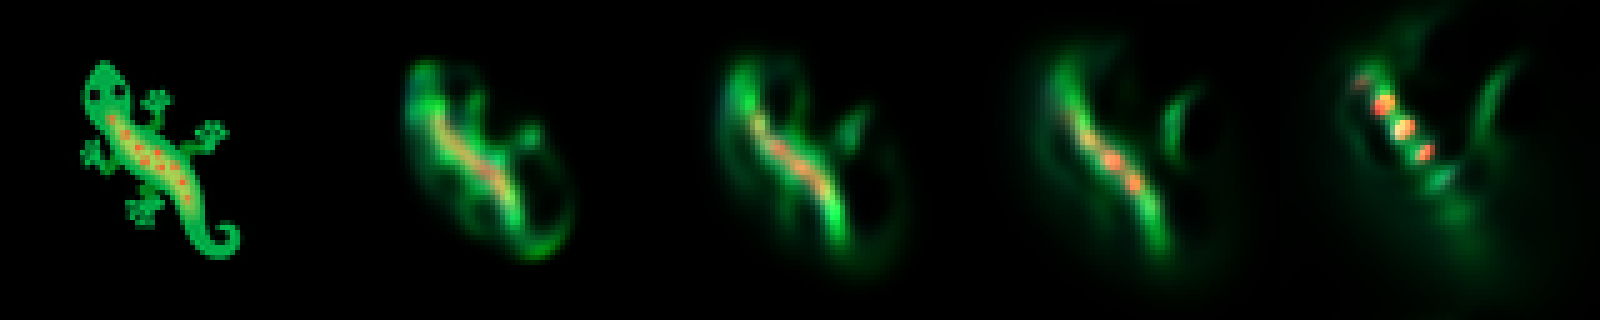
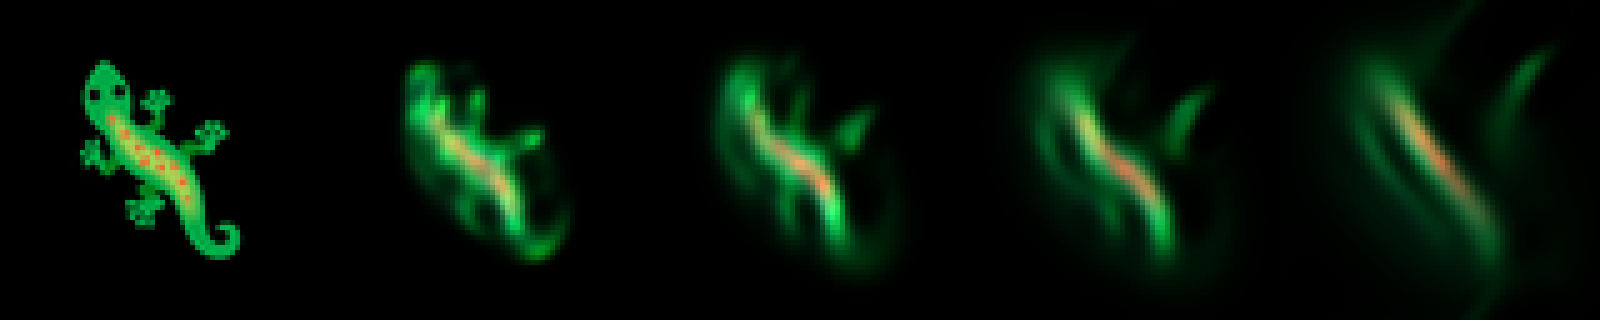
Measure persistence instead of judging it by eye
The polar run reaches the lizard and then loses it, and until now that was a
claim about a picture. Loss from the seed against rollout length, at the
current checkpoint:

    8    0.0257
    16   0.0032     <- the training window
    32   0.0043
    64   0.0069
    128  0.0100

The minimum sits exactly at the window and rises monotonically past it. So
checkpoints now log that whole curve, and the reseeding rate the curve
indicts becomes a flag: --reseed-every, defaulting to 4 rather than the
every-iteration behaviour that kept half a batch of two permanently fresh.

Also here, bake_from_config: kernel dicts baked with angular terms honoured
and R as a continuous radial scale on the shared grid. It is what §7 asks
bakeKernel to become, and it is what lets train/evaluate.py replay a
preset.json exactly as index.html would -- which is also a check that nothing
the trainer learned lives outside the file it exports.

Parity still passes.

Claude-Session: https://claude.ai/code/session_01WKrMnD7YksARi9mdYUD5iv

diff --git a/train/train.py b/train/train.py
@@ -47,6 +47,7 @@ import fieldlife as fl
 import target as tgt
 
 HERE = os.path.dirname(os.path.abspath(__file__))
+HORIZONS = [16, 32, 64, 128]   # rollout lengths the checkpoint reports
 
 
 # ------------------------------------------------------------------ the model
@@ -128,6 +129,23 @@ def divergence_rate(model, rho, steps=12):
         return (sum((p[0] - mx) * (p[1] - my) for p in gaps) / den) if den else 0.0
 
 
+def horizon_losses(model, target, seed, steps_list):
+    """Loss from the seed at each rollout length.
+
+    The training window is short by necessity, so the number that matters is
+    not the loss at the window but how it behaves well past it: a model that
+    reaches the shape and then smears has a rising curve here, and one that
+    holds has a flat one. Without this the difference is only visible by eye.
+    """
+    with torch.no_grad():
+        out, rho, done = [], seed[None].clone(), 0
+        for s in steps_list:
+            rho = model.rollout(rho, s - done)
+            done = s
+            out.append(((rho[0, :3] - target) ** 2).mean().item())
+    return out
+
+
 def save_progress(path, target, model, seed, steps_list):
     """Target on the left, then the rollout at each checkpoint length."""
     with torch.no_grad():
@@ -157,6 +175,8 @@ def main():
     ap.add_argument("--batch", type=int, default=2)
     ap.add_argument("--window", type=int, default=16, help="BPTT length")
     ap.add_argument("--pool", type=int, default=64)
+    ap.add_argument("--reseed-every", type=int, default=4,
+                    help="iterations between sending a pool state back to the seed")
     ap.add_argument("--lr", type=float, default=3e-3)
     ap.add_argument("--lam-penalty", type=float, default=0.02,
                     help="weight on the measured divergence rate")
@@ -194,7 +214,8 @@ def main():
     logp = os.path.join(run, "log.csv")
     if not os.path.exists(logp):
         with open(logp, "w", newline="") as f:
-            csv.writer(f).writerow(["iter", "loss", "best", "lam", "force", "beta", "secs"])
+            csv.writer(f).writerow(["iter", "loss", "best", "lam", "force", "beta",
+                                    "h16", "h32", "h64", "h128", "secs"])
 
     print(f"run {a.name}: orders {orders}  C {a.channels}  grid {a.grid}  "
           f"window {a.window}  batch {a.batch}  pool {a.pool}")
@@ -205,13 +226,16 @@ def main():
     for it in range(start_it, a.iters):
         idx = torch.randint(0, a.pool, (a.batch,))
         batch = pool[idx].clone()
-        # the worst state in the batch goes back to the seed, so the model has
-        # to keep working from scratch and cannot drift into a pool of its own
-        # comfortable states -- Growing NCA's trick, and the reason the pattern
-        # is asked to persist rather than merely to be reached once
-        with torch.no_grad():
-            worst = ((batch[:, :3] - target) ** 2).mean(dim=(1, 2, 3)).argmax()
-        batch[worst] = seed
+        # The worst state in the batch goes back to the seed, so the model has
+        # to keep working from scratch -- Growing NCA's trick. But the RATE
+        # matters as much as the trick: resetting one of a batch of two every
+        # iteration reseeds half the batch, and then no pooled state ever ages
+        # past about two windows, so persistence is never actually asked for.
+        # Reseeding every few iterations instead lets the pool grow old.
+        if it % a.reseed_every == 0:
+            with torch.no_grad():
+                worst = ((batch[:, :3] - target) ** 2).mean(dim=(1, 2, 3)).argmax()
+            batch[worst] = seed
 
         out = model.rollout(batch, a.window)
         loss = ((out[:, :3] - target) ** 2).mean()
@@ -241,18 +265,20 @@ def main():
         if it % a.ckpt == 0 or it == a.iters - 1:
             f, r, b = model.scalars()
             secs = time.time() - t0
+            hz = horizon_losses(model, target, seed, HORIZONS)
             with open(logp, "a", newline="") as fh:
                 csv.writer(fh).writerow([it, f"{loss.item():.6f}", f"{best:.6f}",
                                          f"{lam:.3f}", f"{f:.2f}", f"{b:.3f}",
-                                         f"{secs:.0f}"])
+                                         *[f"{v:.6f}" for v in hz], f"{secs:.0f}"])
             json.dump(model.to_config(a.channels, a.grid),
                       open(os.path.join(run, "preset.json"), "w"))
             torch.save({"model": model.state_dict(), "opt": opt.state_dict(),
                         "pool": pool, "iter": it}, ck)
             save_progress(os.path.join(run, "progress.png"), target, model, seed,
-                          [16, 32, 64, 128])
+                          HORIZONS)
             print(f"  it {it:6d}  loss {loss.item():.5f}  best {best:.5f}  "
                   f"lam {lam:+.2f}  force {f:6.1f}  beta {b:.2f}  "
+                  f"horizon {'/'.join(f'{v:.4f}' for v in hz)}  "
                   f"{secs / max(it - start_it + 1, 1):.2f}s/it", flush=True)
 
         if a.minutes and time.time() - t0 > a.minutes * 60:

diff --git a/train/evaluate.py b/train/evaluate.py
@@ -1,0 +1,66 @@
+"""
+Replay a trained preset and report how well it holds the target.
+
+    python3 train/evaluate.py train/runs/polar/preset.json
+
+Everything comes from the preset -- the same file index.html would load -- so
+this also checks that nothing the trainer learned lives outside it.
+"""
+
+import argparse
+import json
+import os
+import sys
+
+import numpy as np
+import torch
+from PIL import Image
+
+sys.path.insert(0, os.path.dirname(os.path.abspath(__file__)))
+import fieldlife as fl
+import target as tgt
+
+HORIZONS = [8, 16, 32, 64, 128, 256]
+
+
+def main():
+    ap = argparse.ArgumentParser()
+    ap.add_argument("preset")
+    ap.add_argument("--kr", type=int, default=13)
+    ap.add_argument("--png", default=None)
+    a = ap.parse_args()
+
+    cfg = json.load(open(a.preset))
+    C, N = cfg["C"], cfg["N"]
+    tg = torch.tensor(tgt.render_emoji(span=tgt.SPAN, grid=N), dtype=torch.float64)
+    masses = tgt.seed_masses(tg.numpy(), C, rng=np.random.default_rng(0))
+    rho = torch.tensor(tgt.seed_field(masses, grid=N), dtype=torch.float64)[None]
+
+    kern = fl.bake_from_config(cfg["kernels"], C, a.kr)
+    mat = torch.tensor(cfg["mat"], dtype=torch.float64).reshape(C, C)
+    g = (cfg["force"], cfg["repel"], cfg["beta"])
+    print(f"{os.path.basename(os.path.dirname(a.preset))}: C {C}  grid {N}  "
+          f"force {g[0]:.1f}  repel {g[1]:.2f}  beta {g[2]:.3f}")
+
+    tiles, done = [tg.numpy()], 0
+    print(f"  {'steps':>6} {'loss':>10}")
+    for h in HORIZONS:
+        for _ in range(h - done):
+            rho = fl.step(rho, kern, mat, *g)
+        done = h
+        loss = ((rho[0, :3] - tg) ** 2).mean().item()
+        print(f"  {h:>6} {loss:>10.6f}")
+        tiles.append(rho[0, :3].numpy())
+
+    drift = (rho[0].sum(dim=(1, 2)) - torch.tensor(masses)).abs().max().item()
+    print(f"  mass drift over {done} steps: {drift:.2e}")
+
+    if a.png:
+        strip = np.concatenate([np.clip(t.transpose(1, 2, 0), 0, 1) for t in tiles], axis=1)
+        img = Image.fromarray((strip * 255).astype(np.uint8))
+        img.resize((img.width * 4, img.height * 4), Image.NEAREST).save(a.png)
+        print(f"  wrote {a.png}")
+
+
+if __name__ == "__main__":
+    main()

diff --git a/train/fieldlife.py b/train/fieldlife.py
@@ -322,3 +322,32 @@ class PolarKernels(torch.nn.Module):
                             "m": orders[l], "phase": ph[c][l]}
                            for l in range(len(orders))]}
                 for c in range(self.C)]
+
+
+def bake_from_config(kernels, C, KR, dtype=torch.float64, device="cpu"):
+    """Bake index.html-shaped kernel dicts, honouring angular terms.
+
+    This is the reference for what §7 of docs/nca-experiment.md asks bakeKernel
+    to become: `m` and `phase` on a term, and every channel baked on the ONE
+    shared grid with `R` as a continuous radial scale rather than resampled to
+    its own resolution. Terms without `m`/`phase` default to a plain radial
+    lobe, so an existing preset bakes exactly as it does today.
+
+    It is also how a trained preset.json is replayed -- see train/evaluate.py.
+    """
+    px, py = _subsampled(KR, dtype, device)
+    rad, theta = torch.hypot(px, py), torch.atan2(py, px)
+    out = []
+    for c in range(C):
+        k = kernels[c]
+        R = max(float(k["R"]), 1e-3)
+        rr = rad / R
+        v = torch.zeros_like(rr)
+        for t in k.get("terms", []):
+            w = max(float(t["w"]), 2.0 / KR)      # below ~2 cells the stencil aliases
+            v = v + (float(t["a"])
+                     * torch.exp(-(((rr - float(t["r"])) / w) ** 2))
+                     * torch.cos(float(t.get("m", 0)) * theta + float(t.get("phase", 0.0))))
+        v = torch.where(rr > 1, torch.zeros_like(v), v).sum(dim=(0, 1)) / 9
+        out.append(_finish(v, KR, k.get("feather", 0.1), zero_mean=True))
+    return torch.stack(out)
